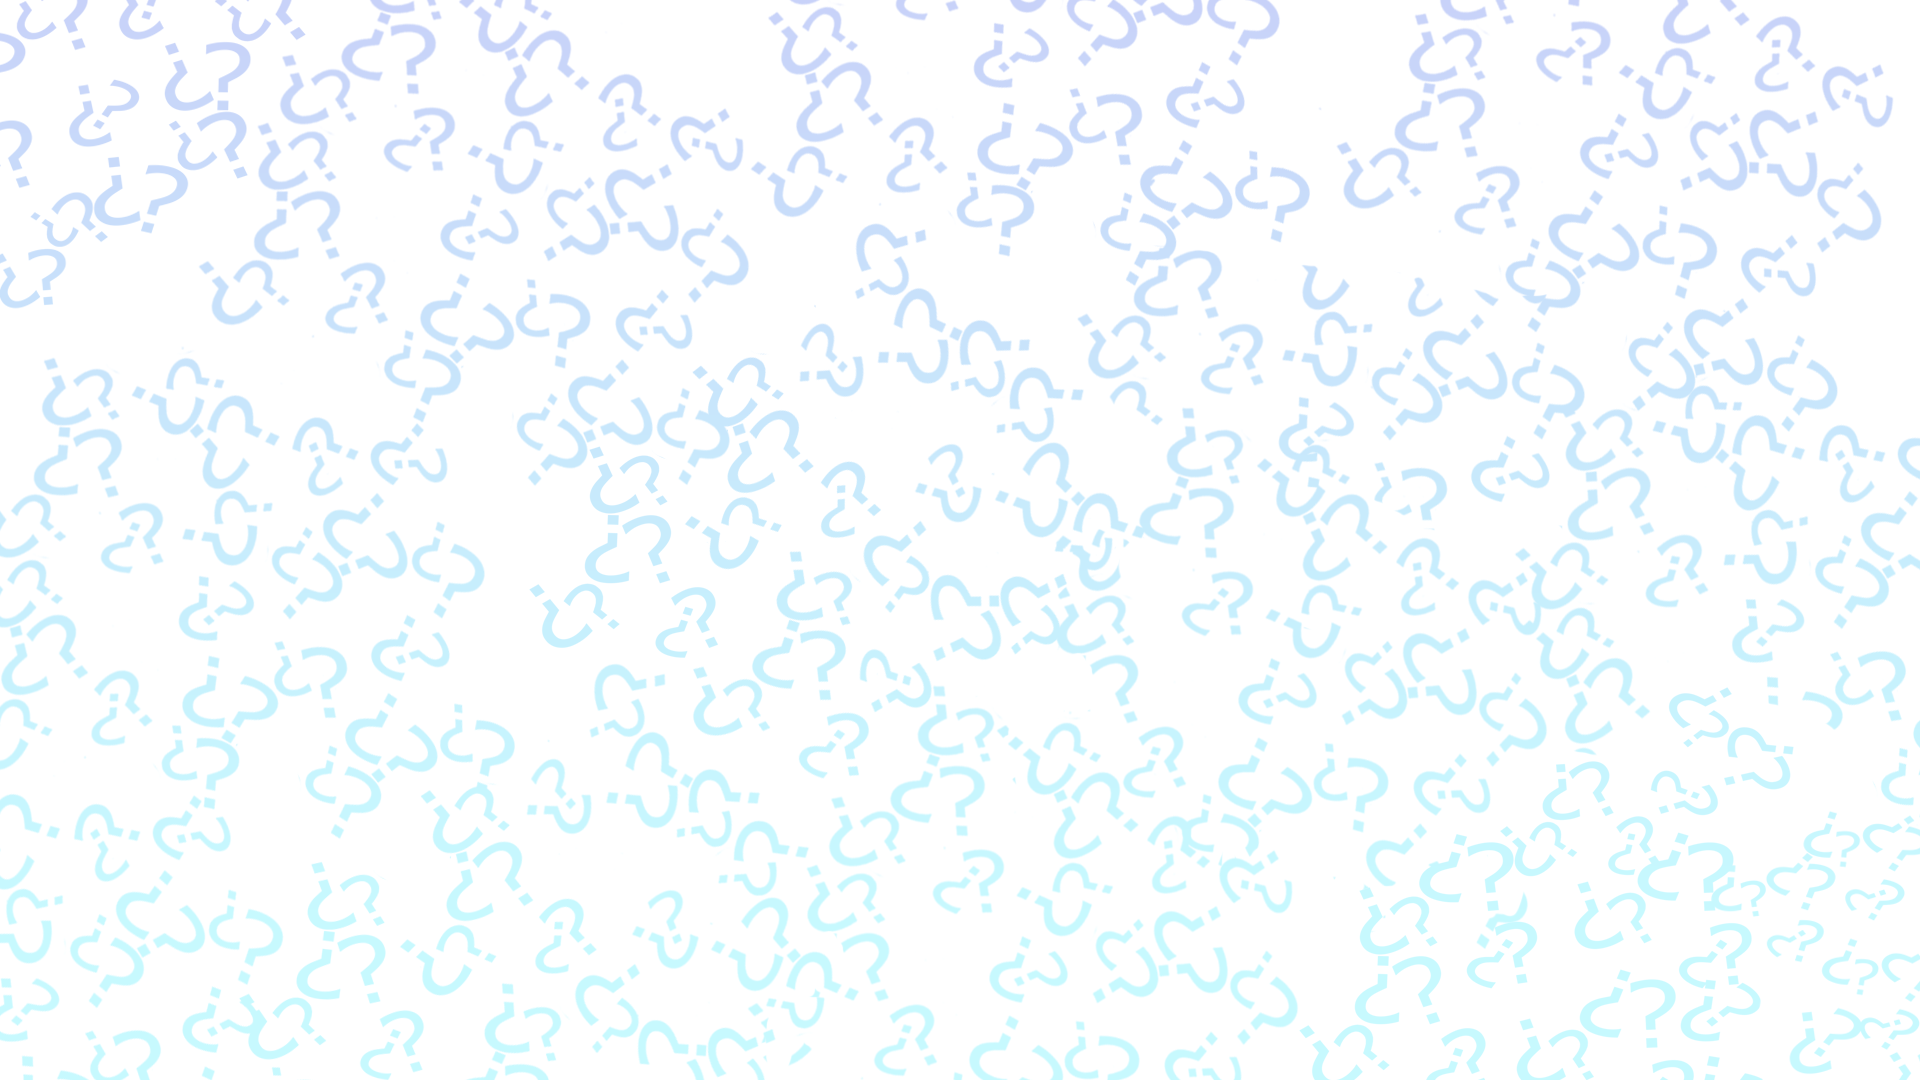
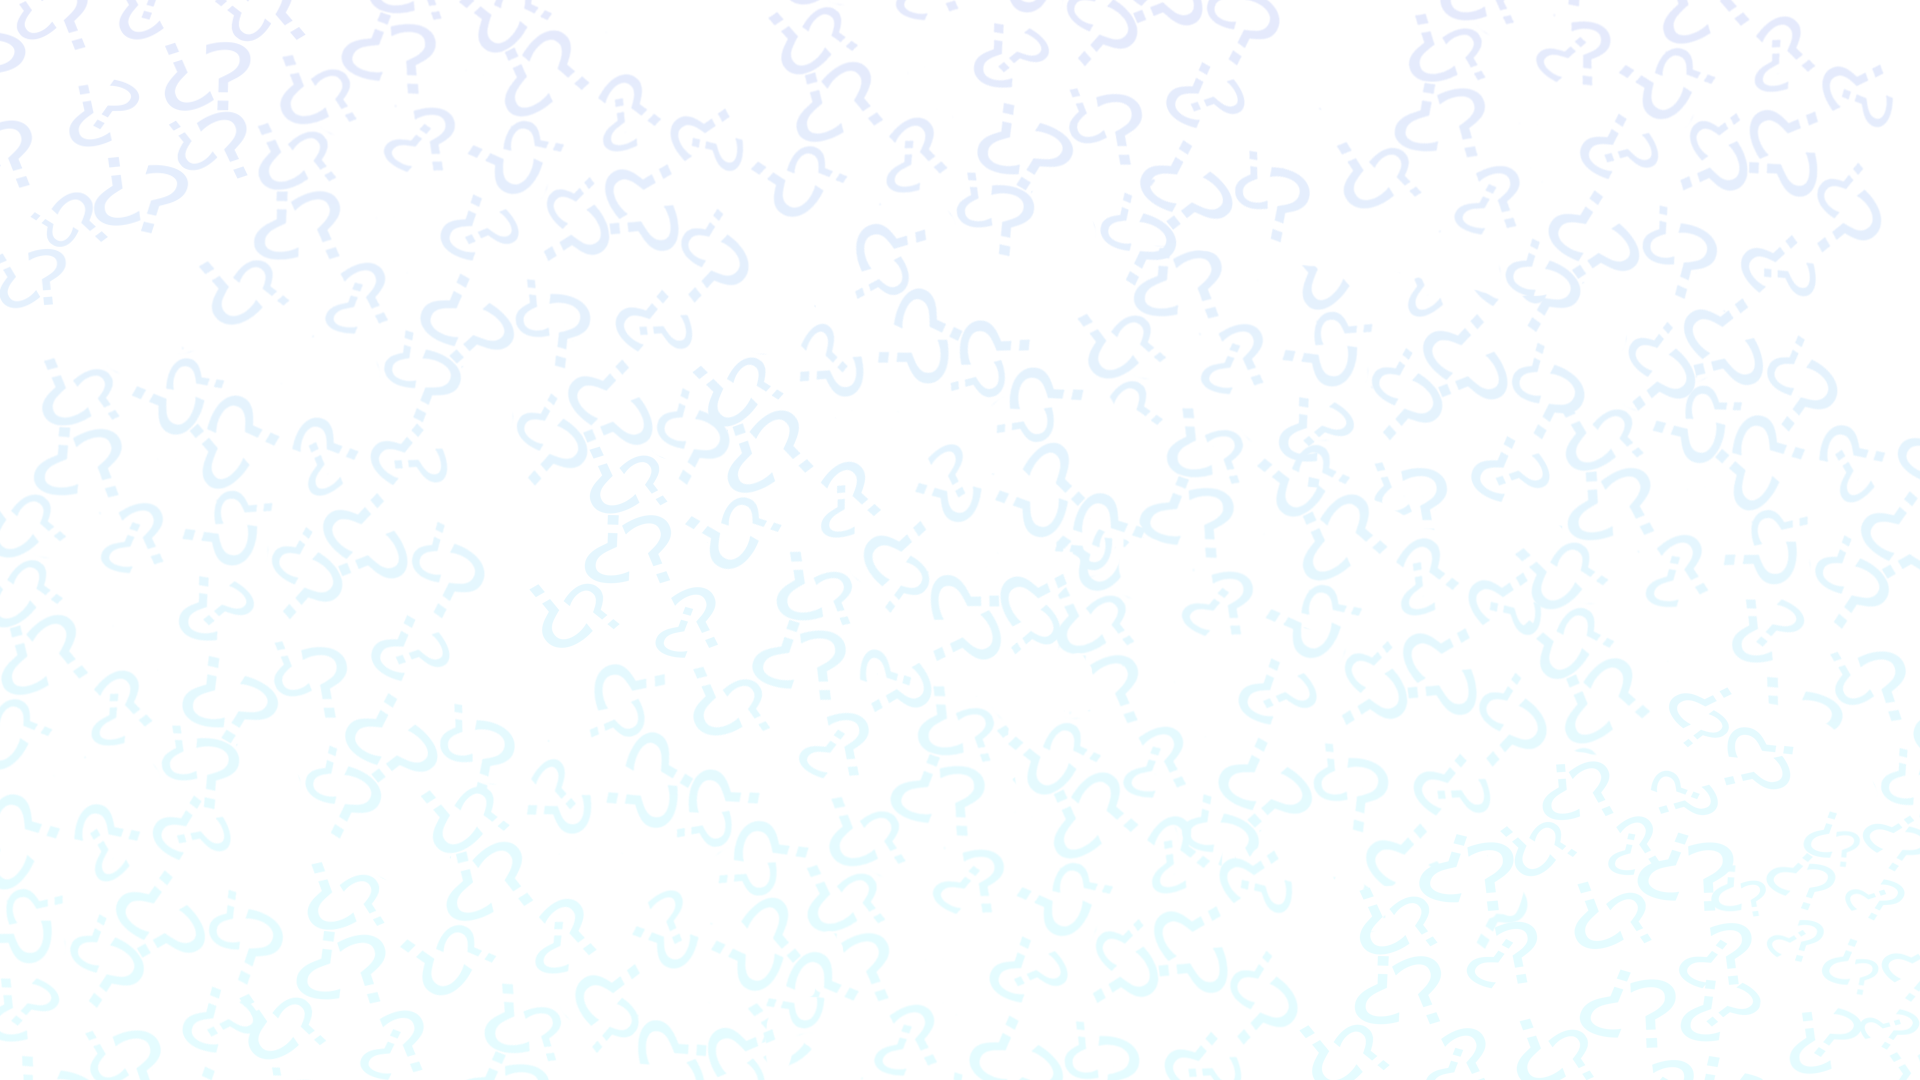
Cambiado fondo inerfaz; bajado mensaje espera tu turno;

diff --git a/trivial-react/src/pages/MultijugadorUnirse.js b/trivial-react/src/pages/MultijugadorUnirse.js
@@ -177,10 +177,15 @@ class Pregunta extends React.Component{
                         <button name="next" onClick={this.handleTurno} disabled={diabledNext}>Next</button>
                     </div>
                 ):( 
-                    <h1 className="esperaTurno">¡Espera tu turno!</h1>
+                    <div className="preg">
+                        <br/>
+                        <h1 className="esperaTurno">¡Espera tu turno!</h1>
+                    </div>
                 )
             ):(
-                <h1 className="esperaJugadores">¡Espera al resto de jugadores!</h1>
+                <div className="preg">
+                    <h1 className="esperaJugadores">¡Espera al resto de jugadores!</h1>
+                </div>
             )}
             </div>
         );
